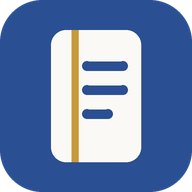
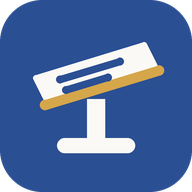
The app is called Lectern
Sidebar, sign-in, page title, PWA manifest, favicon and installed icon.
The mark is now a lectern -- a sloped desk with a lip that holds the page,
on a post and a foot -- drawn once in tools/icons.py for the SVG and PNGs
and again in the theme's own colours in web/icons.js. The stored theme
key moves to lectern.theme and the old one is read once so a choice
survives. The repo and the package keep their names; a test pins Lectern
wherever a person sees one.

Changed region(s): [[0.1562, 0.1562, 0.875, 0.875]]

diff --git a/web/icons.js b/web/icons.js
@@ -54,16 +54,19 @@ export function Icon({ name, label, class: extra = "" }) {
 }
 
 /**
- * The mark: a page with its margin rule. DESIGN.md section 8.
+ * The mark: a lectern. DESIGN.md section 8.
  *
- * Drawn from the theme's own tokens, so it is ink on paper by day and lit ink on
- * charcoal at night. web/icon.svg is the same geometry in fixed colours, for the
- * places a theme cannot reach -- the favicon and the installed app's icon.
+ * The geometry of tools/icons.py on a 32-unit grid, drawn from the theme's own
+ * tokens -- ink and paper by day, lit ink on charcoal at night -- with the lip
+ * in the first subject hue's amber. web/icon.svg is the same drawing in fixed
+ * colours, for the places a theme cannot reach: the favicon and the app icon.
  */
 export function Mark({ class: extra = "" }) {
   return html`<svg class=${`mark ${extra}`} viewBox="0 0 32 32" aria-hidden="true" focusable="false">
-    <rect x="5" y="3" width="22" height="26" rx="4" fill="var(--raised)" stroke="var(--ink)" stroke-width="1.6" />
-    <path d="M11 3.8v24.4" stroke="var(--s0-fg)" stroke-width="1.8" />
-    <path d="M14.5 11h8M14.5 16h8M14.5 21h5" stroke="var(--accent)" stroke-width="1.8" stroke-linecap="round" />
+    <rect x="14.5" y="16.5" width="3" height="7" fill="var(--ink)" />
+    <rect x="9.5" y="23" width="13" height="2.5" rx="1.25" fill="var(--ink)" />
+    <polygon points="6,13 24,7.5 26,11.5 8,17" fill="var(--raised)" stroke="var(--ink)" stroke-width="1.4" stroke-linejoin="round" />
+    <path d="M7.5 17.5L26.5 11.75" stroke="var(--s0-fg)" stroke-width="1.8" stroke-linecap="round" />
+    <path d="M10 13.25L20 10.25M11 15L18 12.9" stroke="var(--accent)" stroke-width="1.3" stroke-linecap="round" />
   </svg>`;
 }

diff --git a/web/theme.js b/web/theme.js
@@ -11,7 +11,10 @@
 // it, and it keeps <meta name="theme-color"> in step so the phone's own chrome
 // matches.
 
-const KEY = "margin.theme";
+const KEY = "lectern.theme";
+// The key from the week the app was called Margin, read once so a choice made
+// then survives the rename, and cleared the next time a theme is chosen.
+const OLD_KEY = "margin.theme";
 export const CHOICES = ["system", "light", "dark"];
 
 // The page ground of each theme, for the browser's own chrome.
@@ -19,7 +22,7 @@ const GROUND = { light: "#f3efe7", dark: "#171512" };
 
 export function storedTheme() {
   try {
-    const found = localStorage.getItem(KEY);
+    const found = localStorage.getItem(KEY) || localStorage.getItem(OLD_KEY);
     return CHOICES.includes(found) ? found : "system";
   } catch {
     return "system";
@@ -42,6 +45,7 @@ export function applyTheme(choice) {
 export function setTheme(choice) {
   if (!CHOICES.includes(choice)) return;
   try {
+    localStorage.removeItem(OLD_KEY);
     if (choice === "system") localStorage.removeItem(KEY);
     else localStorage.setItem(KEY, choice);
   } catch {

diff --git a/web/index.html b/web/index.html
@@ -10,7 +10,7 @@
 -->
 <meta name="viewport" content="width=device-width, initial-scale=1">
 <meta name="color-scheme" content="dark">
-<title>Margin</title>
+<title>Lectern</title>
 <link rel="manifest" href="/manifest.webmanifest">
 <meta name="theme-color" content="#f3efe7" media="(prefers-color-scheme: light)">
 <meta name="theme-color" content="#171512" media="(prefers-color-scheme: dark)">
@@ -22,7 +22,7 @@
 -->
 <script>
   try {
-    var chosen = localStorage.getItem("margin.theme");
+    var chosen = localStorage.getItem("lectern.theme") || localStorage.getItem("margin.theme");
     if (chosen === "light" || chosen === "dark") {
       document.documentElement.dataset.theme = chosen;
       document.querySelector('meta[name="theme-color"]:not([media])')

diff --git a/web/ui.js b/web/ui.js
@@ -46,9 +46,9 @@ export function Chip({ name, class: extra = "" }) {
 
 /** The mark and the name, linking home. */
 export function Brand() {
-  return html`<a class="brand" ...${linkProps("/")} aria-label="Margin, Today">
+  return html`<a class="brand" ...${linkProps("/")} aria-label="Lectern, Today">
     <${Mark} />
-    <span class="brand-name">Margin</span>
+    <span class="brand-name">Lectern</span>
   </a>`;
 }
 

diff --git a/web/sw.js b/web/sw.js
@@ -22,7 +22,7 @@
 // edited by hand: the shell is served cache-first, so a changed file reaches an
 // installed app ONLY when this changes, and a forgotten bump looks exactly like
 // a fix that did not work. A test fails when it is stale.
-const VERSION = "9d781150afb8";
+const VERSION = "9d1a309ba422";
 const SHELL = `shell-${VERSION}`;
 const API = `api-${VERSION}`;
 const DOCS = `docs-${VERSION}`;

diff --git a/tools/icons.py b/tools/icons.py
@@ -2,13 +2,16 @@
 
     python tools/icons.py
 
-The mark is DESIGN.md section 8's: a page with its margin rule, on fountain-pen
-blue. Drawn with Pillow rather than rendered from the SVG, because there is no
-SVG rasteriser in this project's dependencies and adding one for four files is
-not worth it -- so the geometry lives here once and both outputs follow it.
+The mark is DESIGN.md section 8's: a lectern -- a sloped reading desk with a
+lip that holds the page, on a post and a foot -- in paper on fountain-pen blue,
+the lip in highlighter amber. Drawn with Pillow rather than rendered from the
+SVG, because there is no SVG rasteriser in this project's dependencies and
+adding one for four files is not worth it -- so the geometry lives here once
+and both outputs follow it. web/icons.js draws the same shapes for the in-app
+mark, in the theme's own colours.
 
-The maskable versions keep the page inside the central 80% safe zone, because a
-launcher may crop the icon to a circle.
+The maskable versions keep the drawing inside the central 80% safe zone,
+because a launcher may crop the icon to a circle.
 """
 
 from __future__ import annotations
@@ -21,27 +24,33 @@ WEB = Path(__file__).resolve().parents[1] / "web"
 
 BLUE = "#2a4f93"
 PAPER = "#fbf9f5"
-AMBER = "#c79a3a"
-INK = "#2a4f93"
+AMBER = "#d6a64a"
 
-# On a 64-unit square: (x, y, w, h, r) of the page, the margin line's x, and the
-# three text lines as (x1, x2, y).
-PAGE = (17, 10, 30, 44, 5)
-MARGIN_X = 25
-LINES = ((29, 41, 22), (29, 41, 30), (29, 36, 38))
+# On a 64-unit square. The desk is a sloped quadrilateral; the lip runs along
+# its lower edge; two lines of "text" lie on it at the same slope.
+DESK = ((12, 26), (48, 15), (52, 23), (16, 34))
+LIP = ((15, 35), (53, 23.5))
+LINES = (((20, 26.5), (40, 20.5)), ((22, 30), (36, 25.8)))
+POST = (29, 33, 35, 47)
+FOOT = (19, 46, 45, 51, 2.5)
 
 
 def svg() -> str:
-    x, y, w, h, r = PAGE
+    desk = " ".join(f"{x},{y}" for x, y in DESK)
+    (lx1, ly1), (lx2, ly2) = LIP
     lines = "".join(
-        f'<path d="M{a} {yy}H{b}" stroke="{INK}" stroke-width="3.2" stroke-linecap="round"/>'
-        for a, b, yy in LINES
+        f'<path d="M{a[0]} {a[1]}L{b[0]} {b[1]}" stroke="{BLUE}" stroke-width="2.6" stroke-linecap="round"/>'
+        for a, b in LINES
     )
+    px1, py1, px2, py2 = POST
+    fx1, fy1, fx2, fy2, fr = FOOT
     return (
         '<svg xmlns="http://www.w3.org/2000/svg" viewBox="0 0 64 64">'
         f'<rect width="64" height="64" rx="14" fill="{BLUE}"/>'
-        f'<rect x="{x}" y="{y}" width="{w}" height="{h}" rx="{r}" fill="{PAPER}"/>'
-        f'<path d="M{MARGIN_X} {y}V{y + h}" stroke="{AMBER}" stroke-width="2.4"/>'
+        f'<rect x="{px1}" y="{py1}" width="{px2 - px1}" height="{py2 - py1}" fill="{PAPER}"/>'
+        f'<rect x="{fx1}" y="{fy1}" width="{fx2 - fx1}" height="{fy2 - fy1}" rx="{fr}" fill="{PAPER}"/>'
+        f'<polygon points="{desk}" fill="{PAPER}" stroke="{PAPER}" stroke-width="2" stroke-linejoin="round"/>'
+        f'<path d="M{lx1} {ly1}L{lx2} {ly2}" stroke="{AMBER}" stroke-width="3.4" stroke-linecap="round"/>'
         f"{lines}</svg>\n"
     )
 
@@ -50,25 +59,37 @@ def png(size: int, *, maskable: bool) -> Image.Image:
     scale = 4  # drawn large and reduced, for smooth edges
     big = size * scale
     unit = big / 64
-    image = Image.new("RGB", (big, big), BLUE) if maskable else Image.new("RGBA", (big, big), (0, 0, 0, 0))
+    if maskable:
+        image = Image.new("RGB", (big, big), BLUE)
+    else:
+        image = Image.new("RGBA", (big, big), (0, 0, 0, 0))
     draw = ImageDraw.Draw(image)
     if not maskable:
         draw.rounded_rectangle((0, 0, big - 1, big - 1), radius=14 * unit, fill=BLUE)
-    # Maskable: shrink the drawing about the centre into the 80% safe zone.
-    shrink = 0.78 if maskable else 1.0
+    shrink = 0.8 if maskable else 1.0
     offset = (1 - shrink) * 32
 
-    def at(value: float) -> float:
-        return (offset + value * shrink) * unit
+    def at(x: float, y: float) -> tuple[float, float]:
+        return ((offset + x * shrink) * unit, (offset + y * shrink) * unit)
 
-    x, y, w, h, r = PAGE
-    draw.rounded_rectangle((at(x), at(y), at(x + w), at(y + h)), radius=r * unit * shrink, fill=PAPER)
-    draw.line((at(MARGIN_X), at(y), at(MARGIN_X), at(y + h)), fill=AMBER, width=max(1, round(2.4 * unit * shrink)))
-    stroke = 3.2 * unit * shrink
-    for a, b, yy in LINES:
-        draw.line((at(a), at(yy), at(b), at(yy)), fill=INK, width=max(1, round(stroke)))
-        for cx in (at(a), at(b)):
-            draw.ellipse((cx - stroke / 2, at(yy) - stroke / 2, cx + stroke / 2, at(yy) + stroke / 2), fill=INK)
+    def round_line(a, b, width, colour):
+        draw.line((*at(*a), *at(*b)), fill=colour, width=max(1, round(width * unit * shrink)))
+        radius = width * unit * shrink / 2
+        for point in (a, b):
+            cx, cy = at(*point)
+            draw.ellipse((cx - radius, cy - radius, cx + radius, cy + radius), fill=colour)
+
+    px1, py1, px2, py2 = POST
+    draw.rectangle((*at(px1, py1), *at(px2, py2)), fill=PAPER)
+    fx1, fy1, fx2, fy2, fr = FOOT
+    draw.rounded_rectangle((*at(fx1, fy1), *at(fx2, fy2)), radius=fr * unit * shrink, fill=PAPER)
+    draw.polygon([at(x, y) for x, y in DESK], fill=PAPER)
+    # Soften the desk's corners the way the SVG's round join does.
+    for a, b in zip(DESK, DESK[1:] + DESK[:1]):
+        round_line(a, b, 2, PAPER)
+    round_line(*LIP, 3.4, AMBER)
+    for a, b in LINES:
+        round_line(a, b, 2.6, BLUE)
     return image.resize((size, size), Image.LANCZOS)
 
 

diff --git a/tests/test_web_assets.py b/tests/test_web_assets.py
@@ -608,3 +608,18 @@ def test_every_module_stylesheet_and_font_is_precached():
         if "/" + path.relative_to(WEB).as_posix() not in precached
     )
     assert not missing, f"not precached: {missing}"
+
+
+def test_the_app_is_called_lectern_wherever_a_person_sees_a_name():
+    """DESIGN.md section 8: Lectern on the screen; the repo keeps its own name."""
+    manifest = json.loads((WEB / "manifest.webmanifest").read_text(encoding="utf-8"))
+    assert manifest["name"] == "Lectern" and manifest["short_name"] == "Lectern"
+    head = (WEB / "index.html").read_text(encoding="utf-8")
+    assert "<title>Lectern</title>" in head
+    brand = (WEB / "ui.js").read_text(encoding="utf-8")
+    assert '<span class="brand-name">Lectern</span>' in brand
+    # No screen still says the old names. Comments may tell the history.
+    for module in list(WEB.glob("*.js")) + list(WEB.glob("screens/*.js")):
+        code = re.sub(r"//[^\n]*|/\*.*?\*/", "", module.read_text(encoding="utf-8"), flags=re.S)
+        for old in ("classroom-agent", ">Margin<", '"Margin'):
+            assert old not in code, f"{module.name} still says {old}"

diff --git a/tools/screenshots.py b/tools/screenshots.py
@@ -397,7 +397,7 @@ PROBE = """<!DOCTYPE html><html><head><meta charset='utf-8'>
 <script>
 const q = new URLSearchParams(location.search);
 (async () => {
-  try { localStorage.setItem('margin.theme', q.get('theme') || 'dark'); } catch (e) {}
+  try { localStorage.setItem('lectern.theme', q.get('theme') || 'dark'); } catch (e) {}
   if (q.get('s') !== '0') {
     await fetch('/api/session', {method: 'POST', credentials: 'same-origin',
       headers: {'Content-Type': 'application/json'},

diff --git a/tests/test_web_render.py b/tests/test_web_render.py
@@ -651,7 +651,7 @@ def test_a_deep_link_into_the_reader_serves_the_app(served):
     base, _ = served
     with urllib.request.urlopen(f"{base}/read/anything", timeout=30) as response:
         assert response.status == 200
-        assert b"<title>Margin</title>" in response.read()
+        assert b"<title>Lectern</title>" in response.read()
 
 
 @chrome_only

diff --git a/DESIGN.md b/DESIGN.md
@@ -327,12 +327,17 @@ a glance -- and everything around it stays quiet.
 
 ### Name and mark
 
-Placeholder name **Margin** -- where the notes go, and the space this app keeps
-for the reading. The other two proposals: **Lectern** (the thing you read
-standing at), **Lamplight** (when it is used). The mark is a page with its
-margin rule: a rounded sheet, one vertical line near its left edge, and a short
-line of accent beside it. It is the favicon, the PWA icon and the sidebar's mark.
-`web/icon.svg` is the source; the PNGs are drawn from the same geometry.
+**Lectern** -- the desk you read at, standing, with the page held at an angle
+in front of you. Chosen 2026-10-02 from three proposals (Margin, Lectern,
+Lamplight); Margin was the placeholder for a week. The repository and the
+Python package keep their names: `classroom-agent` and `agent` are what the
+code is, and Lectern is what the screen says.
+
+The mark is a lectern: a sloped desk with a lip that holds the page, on a post
+and a foot -- paper on fountain-pen blue, the lip in highlighter amber. It is the
+favicon, the installed app's icon and the sidebar's mark. `tools/icons.py` holds
+the geometry once and draws `web/icon.svg` and the PNGs from it; `web/icons.js`
+draws the same shapes in the theme's own colours.
 
 ### Themes
 
